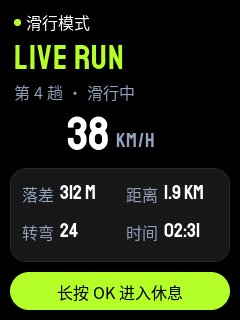
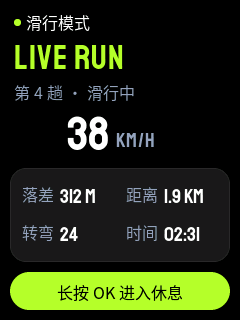
fix: Align the Ski page cells and describe the new layout in the docs
- Move each value 4 pixels down, 2 pixels below its name, so that the
  baselines of the name and the value align.
- Docs 01 and 02: describe the status line, the large speed, and the
  four labeled cells of the Ski page, with each position.

Results: ./tools/validate.sh exit 0. Simulator self-test 60/60.
Device tests: NOT RUN.

diff --git a/assets/sim/coach-flow.html b/assets/sim/coach-flow.html
@@ -244,7 +244,7 @@
       <h1>Coach voice chain (P0) and ski data (Increment 2) · 交互模拟器</h1>
     </div>
   </div>
-  <div class="meta">数据源 <code>Firmware/flows/coach.flow.json</code><br>7 个状态 · 30 条转换 · SHA-256 <code>688d2c720054</code></div>
+  <div class="meta">数据源 <code>Firmware/flows/coach.flow.json</code><br>7 个状态 · 30 条转换 · SHA-256 <code>66d8534820e9</code></div>
 </header>
 <main>
   <section class="card stage" aria-labelledby="device-title">
@@ -327,7 +327,7 @@
 </main>
 
 <script>
-const DATA = {"flow":{"app":"coach","title":"Coach voice chain (P0) and ski data (Increment 2)","strings_file":"../../assets/ui/strings.json","lvgl_pool_bytes":24576,"lvgl_pool_ceiling_bytes":20480,"one_screen_at_a_time":true,"input":{"reserve_ok_long_for_page":true,"back_intents":["DOWN_HOLD"],"comment":"The Coach page uses the OK hold for capture. D-10 makes the DOWN hold the way back."},"subjects":[{"id":"status_text","type":"string","initial":"未连接","size":32},{"id":"tag_text","type":"string","initial":"READY","size":16,"comment":"The large English state word. Display font, ASCII only."},{"id":"state_text","type":"string","initial":"就绪","size":32},{"id":"body_text","type":"string","initial":"按住说话，松开发送","size":240},{"id":"hint_text","type":"string","initial":"长按 OK 提问","size":48},{"id":"battery_text","type":"string","initial":"","size":16},{"id":"link_state","type":"int","initial":0,"comment":"0 down, 1 up"},{"id":"icon_state","type":"int","initial":0,"comment":"0 ready, 1 listening, 2 thinking, 3 answering, 4 failed, 5 ski, 6 exit, 7 link lost"}],"screens":[{"id":"coach","widgets":[{"id":"body_panel","type":"obj","x":10,"y":172,"w":220,"h":90,"bg":"surface","radius":16,"border_width":1,"border_color":"surface_hi"},{"id":"hint_panel","type":"obj","x":10,"y":272,"w":220,"h":38,"bg":"accent","radius":19},{"id":"ridge_back","type":"line","x":0,"y":146,"points":[[0,22],[26,12],[44,17],[74,0],[100,14],[120,9],[150,22],[182,3],[208,13],[240,8]],"width":2,"color":"ridge"},{"id":"link_dot","type":"obj","x":96,"y":19,"w":7,"h":7,"color":"danger","radius":4},{"id":"icon","type":"state_icon","x":170,"y":70,"w":56,"h":56,"value":0},{"id":"mode","type":"label","x":14,"y":10,"w":76,"text":"休息模式","font":"heygo_sc_16","color":"ink"},{"id":"status","type":"label","x":108,"y":10,"w":66,"text":"未连接","font":"heygo_sc_16","color":"danger"},{"id":"battery","type":"label","x":176,"y":11,"w":50,"align":"top_right","text":"","font":"heygo_display_20","color":"muted"},{"id":"tag","type":"label","x":14,"y":61,"w":150,"text":"READY","font":"heygo_display_34","color":"accent","letter_space":1},{"id":"dest","type":"label","x":14,"y":36,"w":100,"text":"AI COACH","font":"heygo_display_20","color":"muted","letter_space":1},{"id":"state","type":"label","x":14,"y":105,"w":150,"text":"就绪","font":"heygo_sc_28","color":"ink"},{"id":"body","type":"label","x":22,"y":184,"w":196,"h":72,"text":"按住说话，松开发送","font":"heygo_sc_16","color":"ink","long_mode":"dots"},{"id":"hint","type":"label","x":22,"y":280,"w":196,"align":"top_mid","text":"长按 OK 提问","font":"heygo_sc_16","color":"bg"}]},{"id":"ski","widgets":[{"id":"hint_panel","type":"obj","x":10,"y":272,"w":220,"h":38,"bg":"accent","radius":19},{"id":"body_panel","type":"obj","x":10,"y":168,"w":220,"h":94,"bg":"surface","radius":16,"border_width":1,"border_color":"surface_hi"},{"id":"mode_dot","type":"obj","x":14,"y":19,"w":7,"h":7,"color":"accent","radius":4},{"id":"mode","type":"label","x":26,"y":10,"w":110,"text":"滑行模式","font":"heygo_sc_16","color":"ink"},{"id":"battery","type":"label","x":176,"y":11,"w":50,"align":"top_right","text":"","font":"heygo_display_20","color":"muted"},{"id":"dest","type":"label","x":14,"y":36,"w":212,"text":"LIVE RUN","font":"heygo_display_34","color":"accent","letter_space":1},{"id":"sub","type":"label","x":14,"y":80,"w":212,"text":"等待手机数据","font":"heygo_sc_16","color":"muted"},{"id":"big","type":"label","x":14,"y":104,"w":96,"align":"top_right","text":"--","font":"heygo_display_48","color":"ink"},{"id":"unit","type":"label","x":116,"y":128,"w":110,"text":"KM/H","font":"heygo_display_20","color":"muted","letter_space":1},{"id":"k_drop","type":"label","x":22,"y":182,"w":36,"text":"落差","font":"heygo_sc_16","color":"muted"},{"id":"drop","type":"label","x":60,"y":180,"w":62,"text":"--","font":"heygo_display_20","color":"ink"},{"id":"k_dist","type":"label","x":126,"y":182,"w":36,"text":"距离","font":"heygo_sc_16","color":"muted"},{"id":"dist","type":"label","x":164,"y":180,"w":62,"text":"--","font":"heygo_display_20","color":"ink"},{"id":"k_turns","type":"label","x":22,"y":220,"w":36,"text":"转弯","font":"heygo_sc_16","color":"muted"},{"id":"turns","type":"label","x":60,"y":218,"w":62,"text":"--","font":"heygo_display_20","color":"ink"},{"id":"k_time","type":"label","x":126,"y":220,"w":36,"text":"时间","font":"heygo_sc_16","color":"muted"},{"id":"time","type":"label","x":164,"y":218,"w":62,"text":"--","font":"heygo_display_20","color":"ink"},{"id":"problem","type":"label","x":22,"y":180,"w":196,"text":"","font":"heygo_sc_16","color":"accent","hidden":true},{"id":"tip","type":"label","x":22,"y":204,"w":196,"h":50,"text":"","font":"heygo_sc_16","color":"ink","long_mode":"dots","hidden":true},{"id":"hint","type":"label","x":22,"y":280,"w":196,"align":"top_mid","text":"长按 OK 进入休息","font":"heygo_sc_16","color":"bg"}]},{"id":"report","widgets":[{"id":"body_panel","type":"obj","x":10,"y":172,"w":220,"h":90,"bg":"surface","radius":16,"border_width":1,"border_color":"surface_hi"},{"id":"hint_panel","type":"obj","x":10,"y":272,"w":220,"h":38,"bg":"accent","radius":19},{"id":"ridge_back","type":"line","x":0,"y":152,"points":[[0,22],[26,12],[44,17],[74,0],[100,14],[120,9],[150,22],[182,3],[208,13],[240,8]],"width":2,"color":"ridge"},{"id":"mode_dot","type":"obj","x":14,"y":19,"w":7,"h":7,"color":"accent","radius":4},{"id":"mode","type":"label","x":26,"y":10,"w":110,"text":"休息模式","font":"heygo_sc_16","color":"ink"},{"id":"battery","type":"label","x":176,"y":11,"w":50,"align":"top_right","text":"","font":"heygo_display_20","color":"muted"},{"id":"dest","type":"label","x":14,"y":36,"w":212,"text":"RUN REPORT","font":"heygo_display_34","color":"accent","letter_space":1},{"id":"title","type":"label","x":14,"y":80,"w":212,"text":"滑完一趟后显示报告","font":"heygo_sc_16","color":"muted"},{"id":"iq","type":"label","x":14,"y":105,"w":96,"align":"top_right","text":"--","font":"heygo_display_48","color":"ink"},{"id":"iq_name","type":"label","x":116,"y":106,"w":110,"text":"HEYGO IQ","font":"heygo_display_20","color":"muted","letter_space":1},{"id":"age","type":"label","x":116,"y":131,"w":110,"text":"","font":"heygo_display_20","color":"muted","letter_space":1},{"id":"problem","type":"label","x":22,"y":182,"w":196,"text":"","font":"heygo_sc_16","color":"accent"},{"id":"tip","type":"label","x":22,"y":206,"w":196,"h":50,"text":"","font":"heygo_sc_16","color":"ink","long_mode":"dots"},{"id":"hint","type":"label","x":22,"y":280,"w":196,"align":"top_mid","text":"短按 UP 回教练","font":"heygo_sc_16","color":"bg"}]},{"id":"exit","widgets":[{"id":"body_panel","type":"obj","x":10,"y":176,"w":220,"h":86,"bg":"surface","radius":16,"border_width":1,"border_color":"surface_hi"},{"id":"hint_panel","type":"obj","x":10,"y":272,"w":220,"h":38,"bg":"accent","radius":19},{"id":"mode_dot","type":"obj","x":14,"y":19,"w":7,"h":7,"color":"danger","radius":4},{"id":"icon","type":"state_icon","x":170,"y":64,"w":56,"h":56,"value":6},{"id":"mode","type":"label","x":26,"y":10,"w":110,"text":"休息模式","font":"heygo_sc_16","color":"ink"},{"id":"battery","type":"label","x":176,"y":11,"w":50,"align":"top_right","text":"","font":"heygo_display_20","color":"muted"},{"id":"dest","type":"label","x":14,"y":36,"w":150,"text":"END SESSION","font":"heygo_display_34","color":"danger","letter_space":1},{"id":"title","type":"label","x":14,"y":126,"w":212,"text":"退出休息模式？","font":"heygo_sc_28","color":"ink"},{"id":"primary","type":"label","x":22,"y":188,"w":196,"text":"OK  退出休息模式","font":"heygo_sc_16","color":"accent"},{"id":"secondary","type":"label","x":22,"y":226,"w":196,"text":"UP / DOWN  返回","font":"heygo_sc_16","color":"muted"},{"id":"hint","type":"label","x":22,"y":280,"w":196,"align":"top_mid","text":"短按 OK 确认","font":"heygo_sc_16","color":"bg"}]}],"transforms":[{"id":"tag_color","from":"int","to":"color","map":{"4":"danger","7":"danger"},"default":"accent","comment":"The large English state word turns red for the failure and link icons."},{"id":"link_color","from":"int","to":"color","map":{"0":"danger","1":"muted"},"default":"muted"},{"id":"link_dot_color","from":"int","to":"color","map":{"0":"danger","1":"ok"},"default":"danger"}],"bindings":[{"subject":"status_text","target":"status.text"},{"subject":"tag_text","target":"tag.text"},{"subject":"icon_state","target":"tag.color","transform":"tag_color"},{"subject":"state_text","target":"state.text"},{"subject":"body_text","target":"body.text"},{"subject":"hint_text","target":"hint.text"},{"subject":"battery_text","target":"battery.text"},{"subject":"link_state","target":"status.color","transform":"link_color"},{"subject":"link_state","target":"link_dot.color","transform":"link_dot_color"},{"subject":"icon_state","target":"icon.value"}],"actions":[{"id":"ui_show_ski","async":false},{"id":"ui_show_rest","async":false},{"id":"ui_show_done","async":false},{"id":"ui_show_exit","async":false},{"id":"ui_show_report","async":false},{"id":"ui_show_listening","async":false},{"id":"ui_show_thinking","async":false},{"id":"ui_show_answering","async":false},{"id":"ui_show_retry","async":false},{"id":"ui_show_timeout","async":false},{"id":"ui_show_limit","async":false},{"id":"ui_show_link_lost","async":false},{"id":"ui_show_blocked","async":false},{"id":"ui_link_ready","async":false,"comment":"The link glue applies the ui_link_* and ui_why_* actions. No transition uses them."},{"id":"ui_link_down","async":false},{"id":"ui_link_no_voice","async":false},{"id":"ui_why_link_down","async":false},{"id":"ui_why_phone_silent","async":false},{"id":"ui_why_version","async":false},{"id":"ui_why_mtu","async":false},{"id":"ui_why_audio","async":false},{"id":"audio_capture_start","async":true},{"id":"audio_capture_stop","async":true},{"id":"audio_play_start","async":true},{"id":"audio_play_stop","async":true},{"id":"link_send_agent_start","async":true},{"id":"link_send_agent_end","async":true},{"id":"link_send_agent_cancel","async":true}],"ui_effects":{"comment":"The subject values that each ui_show_* action sets. A value is a key in assets/ui/strings.json, or an empty text. n fills {n}. A missing subject keeps its value.","ui_show_ski":{},"ui_show_exit":{},"ui_show_report":{},"ui_show_rest":{"tag_text":"tag.ready","state_text":"state.ready","body_text":"msg.ready","hint_text":"hint.ready","icon_state":0},"ui_show_done":{"tag_text":"tag.ready","state_text":"state.ready","hint_text":"hint.ready","icon_state":0},"ui_show_listening":{"tag_text":"tag.listening","state_text":"state.listening","body_text":"msg.listening","hint_text":"hint.listening","icon_state":1},"ui_show_thinking":{"tag_text":"tag.thinking","state_text":"state.thinking","body_text":"msg.sent","hint_text":"hint.thinking","icon_state":2},"ui_show_answering":{"tag_text":"tag.answering","state_text":"state.answering","hint_text":"hint.answering","icon_state":3},"ui_show_retry":{"tag_text":"tag.failed","state_text":"state.failed","body_text":"msg.retry","hint_text":"hint.ready","icon_state":4},"ui_show_timeout":{"tag_text":"tag.failed","state_text":"state.failed","body_text":"msg.timeout","hint_text":"hint.ready","icon_state":4},"ui_show_limit":{"tag_text":"tag.thinking","state_text":"state.thinking","body_text":{"key":"msg.limit","n":20},"hint_text":"hint.thinking","icon_state":2},"ui_show_link_lost":{"tag_text":"tag.failed","state_text":"state.failed","body_text":"msg.link_lost","hint_text":"hint.ready","icon_state":7},"ui_show_blocked":{"tag_text":"tag.failed","state_text":"state.failed","hint_text":"hint.ready","icon_state":7},"ui_link_ready":{"status_text":"status.link_up","link_state":1},"ui_link_down":{"status_text":"status.link_down","link_state":0},"ui_link_no_voice":{"status_text":"msg.voice_off","link_state":0},"ui_why_link_down":{"body_text":"msg.link_lost"},"ui_why_phone_silent":{"body_text":"msg.phone_silent"},"ui_why_version":{"body_text":"msg.version"},"ui_why_mtu":{"body_text":"msg.voice_off"},"ui_why_audio":{"body_text":"msg.voice_off"}},"states":[{"id":"SKI","screen":"ski","initial":true,"root":true},{"id":"READY","screen":"coach"},{"id":"CAPTURE","screen":"coach"},{"id":"WAIT_ANSWER","screen":"coach"},{"id":"PLAYBACK","screen":"coach"},{"id":"REPORT","screen":"report"},{"id":"EXIT_Q","screen":"exit"}],"transitions":[{"from":"SKI","on":"OK_HOLD","to":"READY","actions":["ui_show_rest"],"comment":"D-15. This press enters Rest mode. One press gives one OK_HOLD, so it cannot also start capture."},{"from":"READY","on":"OK_HOLD","to":"CAPTURE","actions":["ui_show_listening","audio_capture_start","link_send_agent_start"]},{"from":"READY","on":"DOWN_HOLD","to":"EXIT_Q","actions":["ui_show_exit"]},{"from":"READY","on":"DOWN_SHORT","to":"REPORT","actions":["ui_show_report"],"comment":"D-25. Only the idle Coach page opens the Report page. A short press during audio changes no page."},{"from":"READY","on":"ASK_BLOCKED","to":"READY","actions":["ui_show_blocked"],"comment":"The glue sends ASK_BLOCKED in place of OK_HOLD while voice is not available. The ui_why_* text gives the cause."},{"from":"READY","on":"LINK_LOST","to":"READY","actions":["ui_show_link_lost"]},{"from":"CAPTURE","on":"OK_RELEASE","to":"WAIT_ANSWER","actions":["audio_capture_stop","link_send_agent_end","ui_show_thinking"]},{"from":"CAPTURE","on":"CAPTURE_LIMIT","to":"WAIT_ANSWER","actions":["audio_capture_stop","link_send_agent_end","ui_show_limit"]},{"from":"CAPTURE","on":"UP_HOLD","to":"READY","actions":["audio_capture_stop","link_send_agent_cancel","ui_show_rest"]},{"from":"CAPTURE","on":"LINK_LOST","to":"READY","actions":["audio_capture_stop","ui_show_link_lost"]},{"from":"WAIT_ANSWER","on":"ANSWER_START","to":"PLAYBACK","actions":["ui_show_answering","audio_play_start"]},{"from":"WAIT_ANSWER","on":"ANSWER_FAILED","to":"READY","actions":["ui_show_retry"]},{"from":"WAIT_ANSWER","on":"AGENT_TIMEOUT","to":"READY","actions":["ui_show_timeout"]},{"from":"WAIT_ANSWER","on":"UP_HOLD","to":"READY","actions":["link_send_agent_cancel","ui_show_rest"]},{"from":"WAIT_ANSWER","on":"OK_HOLD","to":"CAPTURE","actions":["link_send_agent_cancel","ui_show_listening","audio_capture_start","link_send_agent_start"],"comment":"A new question cancels the open exchange. A late answer then carries a stale xid."},{"from":"WAIT_ANSWER","on":"LINK_LOST","to":"READY","actions":["ui_show_link_lost"]},{"from":"PLAYBACK","on":"ANSWER_END","to":"READY","actions":["audio_play_stop","ui_show_done"],"comment":"ui_show_done keeps the answer text on the screen until the next action."},{"from":"PLAYBACK","on":"UP_HOLD","to":"READY","actions":["audio_play_stop","link_send_agent_cancel","ui_show_rest"]},{"from":"PLAYBACK","on":"OK_HOLD","to":"CAPTURE","actions":["audio_play_stop","link_send_agent_cancel","ui_show_listening","audio_capture_start","link_send_agent_start"],"comment":"Playback stops before the microphone starts. The device never records and plays together."},{"from":"PLAYBACK","on":"LINK_LOST","to":"READY","actions":["audio_play_stop","ui_show_link_lost"]},{"from":"REPORT","on":"UP_SHORT","to":"READY","actions":["ui_show_rest"]},{"from":"REPORT","on":"DOWN_HOLD","to":"EXIT_Q","actions":["ui_show_exit"],"comment":"As on the Coach page. An OK hold on the Report page does nothing (D-25)."},{"from":"SKI","on":"SHOW_REPORT","to":"REPORT","actions":["ui_show_report"],"comment":"D-28. The phone sends SHOW_PAGE 3. Only SKI and READY go to the Report page. From SKI the device also enters Rest mode. Every other state ignores the request, so it never stops a question or an answer."},{"from":"READY","on":"SHOW_REPORT","to":"REPORT","actions":["ui_show_report"]},{"from":"EXIT_Q","on":"OK_SHORT","to":"SKI","actions":["ui_show_ski"]},{"from":"EXIT_Q","on":"UP_SHORT","to":"READY","actions":["ui_show_rest"]},{"from":"EXIT_Q","on":"DOWN_SHORT","to":"READY","actions":["ui_show_rest"]},{"from":"EXIT_Q","on":"UP_HOLD","to":"READY","actions":["ui_show_rest"]},{"from":"EXIT_Q","on":"DOWN_HOLD","to":"READY","actions":["ui_show_rest"]},{"from":"EXIT_Q","on":"OK_HOLD","to":"READY","actions":["ui_show_rest"]}]},"strings":{"status.ski":"滑行模式","status.rest":"休息模式","status.link_up":"已连接","status.link_down":"未连接","status.battery":"电量 {n}%","status.battery_unknown":"电量未知","status.separator":" · ","coach.destination":"AI 教练","state.ready":"就绪","state.listening":"正在听","state.thinking":"思考中","state.answering":"回答中","state.failed":"失败","tag.ready":"READY","tag.listening":"LISTENING","tag.thinking":"THINKING","tag.answering":"ANSWERING","tag.failed":"FAILED","ski.title":"滑行中","exit.title":"退出休息模式？","hint.ready":"长按 OK 提问","hint.listening":"松开 OK 发送","hint.thinking":"长按 UP 取消","hint.answering":"长按 UP 停止","hint.ski":"长按 OK 进入休息","hint.exit":"短按 OK 确认","hint.exit_other":"其他键返回","msg.ready":"按住说话，松开发送","msg.listening":"正在记录你的问题","msg.sent":"问题已发送，正在分析","msg.retry":"没听清，请重说","msg.timeout":"超时，请重试","msg.limit":"已到 {n} 秒上限","msg.link_lost":"手机未连接","msg.phone_silent":"手机应用无响应","msg.version":"协议版本不兼容","msg.voice_off":"语音不可用","msg.cancelled":"已取消","hint.report":"短按 UP 回教练","msg.wait_data":"等待手机数据","msg.stale":"数据已过期","msg.report_wait":"报告生成中","msg.skiing":"滑行中","msg.stopped":"静止","msg.run_report":"本趟报告","msg.no_report":"滑完一趟后显示报告","fmt.turns":"{n} 弯","fmt.run":"第 {n} 趟"},"colors":{"bg":"#000000","surface":"#1A1A1A","surface_hi":"#2A2A2A","ink":"#FFFFFF","muted":"#94A3B8","accent":"#B1FE2B","ok":"#B1FE2B","danger":"#EF4444","ridge":"#3A3A3A","accent_dim":"#4A6A12"},"hold_ms":500,"static_issues":["在 CAPTURE、WAIT_ANSWER、PLAYBACK 状态下长按 DOWN 会被忽略。D-19 确认了这个行为：先长按 UP 取消，再长按 DOWN 退出。"]};
+const DATA = {"flow":{"app":"coach","title":"Coach voice chain (P0) and ski data (Increment 2)","strings_file":"../../assets/ui/strings.json","lvgl_pool_bytes":24576,"lvgl_pool_ceiling_bytes":20480,"one_screen_at_a_time":true,"input":{"reserve_ok_long_for_page":true,"back_intents":["DOWN_HOLD"],"comment":"The Coach page uses the OK hold for capture. D-10 makes the DOWN hold the way back."},"subjects":[{"id":"status_text","type":"string","initial":"未连接","size":32},{"id":"tag_text","type":"string","initial":"READY","size":16,"comment":"The large English state word. Display font, ASCII only."},{"id":"state_text","type":"string","initial":"就绪","size":32},{"id":"body_text","type":"string","initial":"按住说话，松开发送","size":240},{"id":"hint_text","type":"string","initial":"长按 OK 提问","size":48},{"id":"battery_text","type":"string","initial":"","size":16},{"id":"link_state","type":"int","initial":0,"comment":"0 down, 1 up"},{"id":"icon_state","type":"int","initial":0,"comment":"0 ready, 1 listening, 2 thinking, 3 answering, 4 failed, 5 ski, 6 exit, 7 link lost"}],"screens":[{"id":"coach","widgets":[{"id":"body_panel","type":"obj","x":10,"y":172,"w":220,"h":90,"bg":"surface","radius":16,"border_width":1,"border_color":"surface_hi"},{"id":"hint_panel","type":"obj","x":10,"y":272,"w":220,"h":38,"bg":"accent","radius":19},{"id":"ridge_back","type":"line","x":0,"y":146,"points":[[0,22],[26,12],[44,17],[74,0],[100,14],[120,9],[150,22],[182,3],[208,13],[240,8]],"width":2,"color":"ridge"},{"id":"link_dot","type":"obj","x":96,"y":19,"w":7,"h":7,"color":"danger","radius":4},{"id":"icon","type":"state_icon","x":170,"y":70,"w":56,"h":56,"value":0},{"id":"mode","type":"label","x":14,"y":10,"w":76,"text":"休息模式","font":"heygo_sc_16","color":"ink"},{"id":"status","type":"label","x":108,"y":10,"w":66,"text":"未连接","font":"heygo_sc_16","color":"danger"},{"id":"battery","type":"label","x":176,"y":11,"w":50,"align":"top_right","text":"","font":"heygo_display_20","color":"muted"},{"id":"tag","type":"label","x":14,"y":61,"w":150,"text":"READY","font":"heygo_display_34","color":"accent","letter_space":1},{"id":"dest","type":"label","x":14,"y":36,"w":100,"text":"AI COACH","font":"heygo_display_20","color":"muted","letter_space":1},{"id":"state","type":"label","x":14,"y":105,"w":150,"text":"就绪","font":"heygo_sc_28","color":"ink"},{"id":"body","type":"label","x":22,"y":184,"w":196,"h":72,"text":"按住说话，松开发送","font":"heygo_sc_16","color":"ink","long_mode":"dots"},{"id":"hint","type":"label","x":22,"y":280,"w":196,"align":"top_mid","text":"长按 OK 提问","font":"heygo_sc_16","color":"bg"}]},{"id":"ski","widgets":[{"id":"hint_panel","type":"obj","x":10,"y":272,"w":220,"h":38,"bg":"accent","radius":19},{"id":"body_panel","type":"obj","x":10,"y":168,"w":220,"h":94,"bg":"surface","radius":16,"border_width":1,"border_color":"surface_hi"},{"id":"mode_dot","type":"obj","x":14,"y":19,"w":7,"h":7,"color":"accent","radius":4},{"id":"mode","type":"label","x":26,"y":10,"w":110,"text":"滑行模式","font":"heygo_sc_16","color":"ink"},{"id":"battery","type":"label","x":176,"y":11,"w":50,"align":"top_right","text":"","font":"heygo_display_20","color":"muted"},{"id":"dest","type":"label","x":14,"y":36,"w":212,"text":"LIVE RUN","font":"heygo_display_34","color":"accent","letter_space":1},{"id":"sub","type":"label","x":14,"y":80,"w":212,"text":"等待手机数据","font":"heygo_sc_16","color":"muted"},{"id":"big","type":"label","x":14,"y":104,"w":96,"align":"top_right","text":"--","font":"heygo_display_48","color":"ink"},{"id":"unit","type":"label","x":116,"y":128,"w":110,"text":"KM/H","font":"heygo_display_20","color":"muted","letter_space":1},{"id":"k_drop","type":"label","x":22,"y":182,"w":36,"text":"落差","font":"heygo_sc_16","color":"muted"},{"id":"drop","type":"label","x":60,"y":184,"w":62,"text":"--","font":"heygo_display_20","color":"ink"},{"id":"k_dist","type":"label","x":126,"y":182,"w":36,"text":"距离","font":"heygo_sc_16","color":"muted"},{"id":"dist","type":"label","x":164,"y":184,"w":62,"text":"--","font":"heygo_display_20","color":"ink"},{"id":"k_turns","type":"label","x":22,"y":220,"w":36,"text":"转弯","font":"heygo_sc_16","color":"muted"},{"id":"turns","type":"label","x":60,"y":222,"w":62,"text":"--","font":"heygo_display_20","color":"ink"},{"id":"k_time","type":"label","x":126,"y":220,"w":36,"text":"时间","font":"heygo_sc_16","color":"muted"},{"id":"time","type":"label","x":164,"y":222,"w":62,"text":"--","font":"heygo_display_20","color":"ink"},{"id":"problem","type":"label","x":22,"y":180,"w":196,"text":"","font":"heygo_sc_16","color":"accent","hidden":true},{"id":"tip","type":"label","x":22,"y":204,"w":196,"h":50,"text":"","font":"heygo_sc_16","color":"ink","long_mode":"dots","hidden":true},{"id":"hint","type":"label","x":22,"y":280,"w":196,"align":"top_mid","text":"长按 OK 进入休息","font":"heygo_sc_16","color":"bg"}]},{"id":"report","widgets":[{"id":"body_panel","type":"obj","x":10,"y":172,"w":220,"h":90,"bg":"surface","radius":16,"border_width":1,"border_color":"surface_hi"},{"id":"hint_panel","type":"obj","x":10,"y":272,"w":220,"h":38,"bg":"accent","radius":19},{"id":"ridge_back","type":"line","x":0,"y":152,"points":[[0,22],[26,12],[44,17],[74,0],[100,14],[120,9],[150,22],[182,3],[208,13],[240,8]],"width":2,"color":"ridge"},{"id":"mode_dot","type":"obj","x":14,"y":19,"w":7,"h":7,"color":"accent","radius":4},{"id":"mode","type":"label","x":26,"y":10,"w":110,"text":"休息模式","font":"heygo_sc_16","color":"ink"},{"id":"battery","type":"label","x":176,"y":11,"w":50,"align":"top_right","text":"","font":"heygo_display_20","color":"muted"},{"id":"dest","type":"label","x":14,"y":36,"w":212,"text":"RUN REPORT","font":"heygo_display_34","color":"accent","letter_space":1},{"id":"title","type":"label","x":14,"y":80,"w":212,"text":"滑完一趟后显示报告","font":"heygo_sc_16","color":"muted"},{"id":"iq","type":"label","x":14,"y":105,"w":96,"align":"top_right","text":"--","font":"heygo_display_48","color":"ink"},{"id":"iq_name","type":"label","x":116,"y":106,"w":110,"text":"HEYGO IQ","font":"heygo_display_20","color":"muted","letter_space":1},{"id":"age","type":"label","x":116,"y":131,"w":110,"text":"","font":"heygo_display_20","color":"muted","letter_space":1},{"id":"problem","type":"label","x":22,"y":182,"w":196,"text":"","font":"heygo_sc_16","color":"accent"},{"id":"tip","type":"label","x":22,"y":206,"w":196,"h":50,"text":"","font":"heygo_sc_16","color":"ink","long_mode":"dots"},{"id":"hint","type":"label","x":22,"y":280,"w":196,"align":"top_mid","text":"短按 UP 回教练","font":"heygo_sc_16","color":"bg"}]},{"id":"exit","widgets":[{"id":"body_panel","type":"obj","x":10,"y":176,"w":220,"h":86,"bg":"surface","radius":16,"border_width":1,"border_color":"surface_hi"},{"id":"hint_panel","type":"obj","x":10,"y":272,"w":220,"h":38,"bg":"accent","radius":19},{"id":"mode_dot","type":"obj","x":14,"y":19,"w":7,"h":7,"color":"danger","radius":4},{"id":"icon","type":"state_icon","x":170,"y":64,"w":56,"h":56,"value":6},{"id":"mode","type":"label","x":26,"y":10,"w":110,"text":"休息模式","font":"heygo_sc_16","color":"ink"},{"id":"battery","type":"label","x":176,"y":11,"w":50,"align":"top_right","text":"","font":"heygo_display_20","color":"muted"},{"id":"dest","type":"label","x":14,"y":36,"w":150,"text":"END SESSION","font":"heygo_display_34","color":"danger","letter_space":1},{"id":"title","type":"label","x":14,"y":126,"w":212,"text":"退出休息模式？","font":"heygo_sc_28","color":"ink"},{"id":"primary","type":"label","x":22,"y":188,"w":196,"text":"OK  退出休息模式","font":"heygo_sc_16","color":"accent"},{"id":"secondary","type":"label","x":22,"y":226,"w":196,"text":"UP / DOWN  返回","font":"heygo_sc_16","color":"muted"},{"id":"hint","type":"label","x":22,"y":280,"w":196,"align":"top_mid","text":"短按 OK 确认","font":"heygo_sc_16","color":"bg"}]}],"transforms":[{"id":"tag_color","from":"int","to":"color","map":{"4":"danger","7":"danger"},"default":"accent","comment":"The large English state word turns red for the failure and link icons."},{"id":"link_color","from":"int","to":"color","map":{"0":"danger","1":"muted"},"default":"muted"},{"id":"link_dot_color","from":"int","to":"color","map":{"0":"danger","1":"ok"},"default":"danger"}],"bindings":[{"subject":"status_text","target":"status.text"},{"subject":"tag_text","target":"tag.text"},{"subject":"icon_state","target":"tag.color","transform":"tag_color"},{"subject":"state_text","target":"state.text"},{"subject":"body_text","target":"body.text"},{"subject":"hint_text","target":"hint.text"},{"subject":"battery_text","target":"battery.text"},{"subject":"link_state","target":"status.color","transform":"link_color"},{"subject":"link_state","target":"link_dot.color","transform":"link_dot_color"},{"subject":"icon_state","target":"icon.value"}],"actions":[{"id":"ui_show_ski","async":false},{"id":"ui_show_rest","async":false},{"id":"ui_show_done","async":false},{"id":"ui_show_exit","async":false},{"id":"ui_show_report","async":false},{"id":"ui_show_listening","async":false},{"id":"ui_show_thinking","async":false},{"id":"ui_show_answering","async":false},{"id":"ui_show_retry","async":false},{"id":"ui_show_timeout","async":false},{"id":"ui_show_limit","async":false},{"id":"ui_show_link_lost","async":false},{"id":"ui_show_blocked","async":false},{"id":"ui_link_ready","async":false,"comment":"The link glue applies the ui_link_* and ui_why_* actions. No transition uses them."},{"id":"ui_link_down","async":false},{"id":"ui_link_no_voice","async":false},{"id":"ui_why_link_down","async":false},{"id":"ui_why_phone_silent","async":false},{"id":"ui_why_version","async":false},{"id":"ui_why_mtu","async":false},{"id":"ui_why_audio","async":false},{"id":"audio_capture_start","async":true},{"id":"audio_capture_stop","async":true},{"id":"audio_play_start","async":true},{"id":"audio_play_stop","async":true},{"id":"link_send_agent_start","async":true},{"id":"link_send_agent_end","async":true},{"id":"link_send_agent_cancel","async":true}],"ui_effects":{"comment":"The subject values that each ui_show_* action sets. A value is a key in assets/ui/strings.json, or an empty text. n fills {n}. A missing subject keeps its value.","ui_show_ski":{},"ui_show_exit":{},"ui_show_report":{},"ui_show_rest":{"tag_text":"tag.ready","state_text":"state.ready","body_text":"msg.ready","hint_text":"hint.ready","icon_state":0},"ui_show_done":{"tag_text":"tag.ready","state_text":"state.ready","hint_text":"hint.ready","icon_state":0},"ui_show_listening":{"tag_text":"tag.listening","state_text":"state.listening","body_text":"msg.listening","hint_text":"hint.listening","icon_state":1},"ui_show_thinking":{"tag_text":"tag.thinking","state_text":"state.thinking","body_text":"msg.sent","hint_text":"hint.thinking","icon_state":2},"ui_show_answering":{"tag_text":"tag.answering","state_text":"state.answering","hint_text":"hint.answering","icon_state":3},"ui_show_retry":{"tag_text":"tag.failed","state_text":"state.failed","body_text":"msg.retry","hint_text":"hint.ready","icon_state":4},"ui_show_timeout":{"tag_text":"tag.failed","state_text":"state.failed","body_text":"msg.timeout","hint_text":"hint.ready","icon_state":4},"ui_show_limit":{"tag_text":"tag.thinking","state_text":"state.thinking","body_text":{"key":"msg.limit","n":20},"hint_text":"hint.thinking","icon_state":2},"ui_show_link_lost":{"tag_text":"tag.failed","state_text":"state.failed","body_text":"msg.link_lost","hint_text":"hint.ready","icon_state":7},"ui_show_blocked":{"tag_text":"tag.failed","state_text":"state.failed","hint_text":"hint.ready","icon_state":7},"ui_link_ready":{"status_text":"status.link_up","link_state":1},"ui_link_down":{"status_text":"status.link_down","link_state":0},"ui_link_no_voice":{"status_text":"msg.voice_off","link_state":0},"ui_why_link_down":{"body_text":"msg.link_lost"},"ui_why_phone_silent":{"body_text":"msg.phone_silent"},"ui_why_version":{"body_text":"msg.version"},"ui_why_mtu":{"body_text":"msg.voice_off"},"ui_why_audio":{"body_text":"msg.voice_off"}},"states":[{"id":"SKI","screen":"ski","initial":true,"root":true},{"id":"READY","screen":"coach"},{"id":"CAPTURE","screen":"coach"},{"id":"WAIT_ANSWER","screen":"coach"},{"id":"PLAYBACK","screen":"coach"},{"id":"REPORT","screen":"report"},{"id":"EXIT_Q","screen":"exit"}],"transitions":[{"from":"SKI","on":"OK_HOLD","to":"READY","actions":["ui_show_rest"],"comment":"D-15. This press enters Rest mode. One press gives one OK_HOLD, so it cannot also start capture."},{"from":"READY","on":"OK_HOLD","to":"CAPTURE","actions":["ui_show_listening","audio_capture_start","link_send_agent_start"]},{"from":"READY","on":"DOWN_HOLD","to":"EXIT_Q","actions":["ui_show_exit"]},{"from":"READY","on":"DOWN_SHORT","to":"REPORT","actions":["ui_show_report"],"comment":"D-25. Only the idle Coach page opens the Report page. A short press during audio changes no page."},{"from":"READY","on":"ASK_BLOCKED","to":"READY","actions":["ui_show_blocked"],"comment":"The glue sends ASK_BLOCKED in place of OK_HOLD while voice is not available. The ui_why_* text gives the cause."},{"from":"READY","on":"LINK_LOST","to":"READY","actions":["ui_show_link_lost"]},{"from":"CAPTURE","on":"OK_RELEASE","to":"WAIT_ANSWER","actions":["audio_capture_stop","link_send_agent_end","ui_show_thinking"]},{"from":"CAPTURE","on":"CAPTURE_LIMIT","to":"WAIT_ANSWER","actions":["audio_capture_stop","link_send_agent_end","ui_show_limit"]},{"from":"CAPTURE","on":"UP_HOLD","to":"READY","actions":["audio_capture_stop","link_send_agent_cancel","ui_show_rest"]},{"from":"CAPTURE","on":"LINK_LOST","to":"READY","actions":["audio_capture_stop","ui_show_link_lost"]},{"from":"WAIT_ANSWER","on":"ANSWER_START","to":"PLAYBACK","actions":["ui_show_answering","audio_play_start"]},{"from":"WAIT_ANSWER","on":"ANSWER_FAILED","to":"READY","actions":["ui_show_retry"]},{"from":"WAIT_ANSWER","on":"AGENT_TIMEOUT","to":"READY","actions":["ui_show_timeout"]},{"from":"WAIT_ANSWER","on":"UP_HOLD","to":"READY","actions":["link_send_agent_cancel","ui_show_rest"]},{"from":"WAIT_ANSWER","on":"OK_HOLD","to":"CAPTURE","actions":["link_send_agent_cancel","ui_show_listening","audio_capture_start","link_send_agent_start"],"comment":"A new question cancels the open exchange. A late answer then carries a stale xid."},{"from":"WAIT_ANSWER","on":"LINK_LOST","to":"READY","actions":["ui_show_link_lost"]},{"from":"PLAYBACK","on":"ANSWER_END","to":"READY","actions":["audio_play_stop","ui_show_done"],"comment":"ui_show_done keeps the answer text on the screen until the next action."},{"from":"PLAYBACK","on":"UP_HOLD","to":"READY","actions":["audio_play_stop","link_send_agent_cancel","ui_show_rest"]},{"from":"PLAYBACK","on":"OK_HOLD","to":"CAPTURE","actions":["audio_play_stop","link_send_agent_cancel","ui_show_listening","audio_capture_start","link_send_agent_start"],"comment":"Playback stops before the microphone starts. The device never records and plays together."},{"from":"PLAYBACK","on":"LINK_LOST","to":"READY","actions":["audio_play_stop","ui_show_link_lost"]},{"from":"REPORT","on":"UP_SHORT","to":"READY","actions":["ui_show_rest"]},{"from":"REPORT","on":"DOWN_HOLD","to":"EXIT_Q","actions":["ui_show_exit"],"comment":"As on the Coach page. An OK hold on the Report page does nothing (D-25)."},{"from":"SKI","on":"SHOW_REPORT","to":"REPORT","actions":["ui_show_report"],"comment":"D-28. The phone sends SHOW_PAGE 3. Only SKI and READY go to the Report page. From SKI the device also enters Rest mode. Every other state ignores the request, so it never stops a question or an answer."},{"from":"READY","on":"SHOW_REPORT","to":"REPORT","actions":["ui_show_report"]},{"from":"EXIT_Q","on":"OK_SHORT","to":"SKI","actions":["ui_show_ski"]},{"from":"EXIT_Q","on":"UP_SHORT","to":"READY","actions":["ui_show_rest"]},{"from":"EXIT_Q","on":"DOWN_SHORT","to":"READY","actions":["ui_show_rest"]},{"from":"EXIT_Q","on":"UP_HOLD","to":"READY","actions":["ui_show_rest"]},{"from":"EXIT_Q","on":"DOWN_HOLD","to":"READY","actions":["ui_show_rest"]},{"from":"EXIT_Q","on":"OK_HOLD","to":"READY","actions":["ui_show_rest"]}]},"strings":{"status.ski":"滑行模式","status.rest":"休息模式","status.link_up":"已连接","status.link_down":"未连接","status.battery":"电量 {n}%","status.battery_unknown":"电量未知","status.separator":" · ","coach.destination":"AI 教练","state.ready":"就绪","state.listening":"正在听","state.thinking":"思考中","state.answering":"回答中","state.failed":"失败","tag.ready":"READY","tag.listening":"LISTENING","tag.thinking":"THINKING","tag.answering":"ANSWERING","tag.failed":"FAILED","ski.title":"滑行中","exit.title":"退出休息模式？","hint.ready":"长按 OK 提问","hint.listening":"松开 OK 发送","hint.thinking":"长按 UP 取消","hint.answering":"长按 UP 停止","hint.ski":"长按 OK 进入休息","hint.exit":"短按 OK 确认","hint.exit_other":"其他键返回","msg.ready":"按住说话，松开发送","msg.listening":"正在记录你的问题","msg.sent":"问题已发送，正在分析","msg.retry":"没听清，请重说","msg.timeout":"超时，请重试","msg.limit":"已到 {n} 秒上限","msg.link_lost":"手机未连接","msg.phone_silent":"手机应用无响应","msg.version":"协议版本不兼容","msg.voice_off":"语音不可用","msg.cancelled":"已取消","hint.report":"短按 UP 回教练","msg.wait_data":"等待手机数据","msg.stale":"数据已过期","msg.report_wait":"报告生成中","msg.skiing":"滑行中","msg.stopped":"静止","msg.run_report":"本趟报告","msg.no_report":"滑完一趟后显示报告","fmt.turns":"{n} 弯","fmt.run":"第 {n} 趟"},"colors":{"bg":"#000000","surface":"#1A1A1A","surface_hi":"#2A2A2A","ink":"#FFFFFF","muted":"#94A3B8","accent":"#B1FE2B","ok":"#B1FE2B","danger":"#EF4444","ridge":"#3A3A3A","accent_dim":"#4A6A12"},"hold_ms":500,"static_issues":["在 CAPTURE、WAIT_ANSWER、PLAYBACK 状态下长按 DOWN 会被忽略。D-19 确认了这个行为：先长按 UP 取消，再长按 DOWN 退出。"]};
 const F = DATA.flow, S = DATA.strings, C = DATA.colors;
 const HOLD_MS = DATA.hold_ms, CAPTURE_LIMIT_MS = 20000, AGENT_TIMEOUT_MS = 10000;
 

diff --git a/需求文件夹/02-architecture.md b/需求文件夹/02-architecture.md
@@ -128,14 +128,18 @@ The positions come from `flows/coach.flow.json`, and the host screen check passe
 | Widget | Position | Font | Content |
 |---|---|---|---|
 | `dest` | `x=14, y=36` | 34 px brand font | "LIVE RUN". After the run ends, "RUN ENDED". After the report arrives, "REPORT" |
-| `run` | `x=14, y=80` | 20 px brand font | "RUN 4  02:31". After the report arrives, "RUN 4  1.9 km" |
-| `speed` | `x=14..110, y=105`, right-aligned | 48 px brand font | The speed. After the report arrives, the Heygo IQ |
-| `unit` | `x=116, y=129` | 20 px brand font | "KM/H". After the report arrives, "HEYGO IQ" |
-| `line1` | `x=14, y=176` | 16 px Chinese | "落差 312 m · 1.9 km". After the report arrives, the core problem |
-| `line2` | `x=14, y=200`, height 50 | 16 px Chinese, at most two lines | "24 弯", plus an out-of-date mark or a "report on the way" mark. After the report arrives, the tip |
+| `sub` | `x=14, y=80` | 16 px Chinese | "第 4 趟 · 滑行中", or the stopped, out-of-date, report-on-the-way, or run-report text. With no data, "等待手机数据" |
+| `big` | `x=14..110, y=104`, right-aligned | 48 px brand font | The speed. After the report arrives, the Heygo IQ |
+| `unit` | `x=116, y=128` | 20 px brand font | "KM/H". After the report arrives, "HEYGO IQ" |
+| `body_panel` | `x=10..230, y=168..262` | None | The background of the data panel |
+| `k_drop` + `drop` | `x=22` and `x=60`, `y=182` | Name in 16 px Chinese, value in 20 px brand font | Vertical drop |
+| `k_dist` + `dist` | `x=126` and `x=164`, `y=182` | As above | Distance |
+| `k_turns` + `turns` | `x=22` and `x=60`, `y=220` | As above | Turn count |
+| `k_time` + `time` | `x=126` and `x=164`, `y=220` | As above | Run time |
+| `problem`, `tip` | `x=22`, `y=180` and `y=204` | 16 px Chinese | Hidden until the report arrives. Then they replace the four cells |
 
-- Before any data arrives, `line1` shows "等待手机数据" and `line2` shows "专注雪道，教练随时待命".
-- After 5 seconds with no new packet, the speed shows "--". After the run ends, the phone sends nothing, and the device marks nothing out of date.
+- Each value sits 2 pixels below its name, so that the two baselines align.
+- The Ski page has no state icon and no ridge line. With both, it had 23 widgets, the host render used all of the LVGL pool, and the drawing hung. Without them, the peak is 18,752 of 21,656 bytes (86%).
 - The 48-pixel font is Staatliches from brand version B. It holds all ASCII characters. It stays in Flash, with a bitmap of 26,115 bytes.
 - No color marks a fast or slow speed.
 

diff --git a/需求文件夹/02-architecture.zh_CN.md b/需求文件夹/02-architecture.zh_CN.md
@@ -128,14 +128,18 @@ D-21 把滑行页正文换成滑行数据。状态栏和按键提示的位置与
 | 控件 | 位置 | 字体 | 内容 |
 |---|---|---|---|
 | `dest` | `x=14, y=36` | 34 px 品牌字体 | "LIVE RUN"；一趟结束后"RUN ENDED"；报告到达后"REPORT" |
-| `run` | `x=14, y=80` | 20 px 品牌字体 | "RUN 4  02:31"；报告到达后"RUN 4  1.9 km" |
-| `speed` | `x=14..110, y=105`，右对齐 | 48 px 品牌字体 | 速度；报告到达后为 Heygo IQ |
-| `unit` | `x=116, y=129` | 20 px 品牌字体 | "KM/H"；报告到达后"HEYGO IQ" |
-| `line1` | `x=14, y=176` | 16 px 中文 | "落差 312 m · 1.9 km"；报告到达后为核心问题 |
-| `line2` | `x=14, y=200`，高 50 | 16 px 中文，最多两行 | "24 弯"，过期时加" · 数据已过期"，结束后加" · 报告生成中"；报告到达后为小建议 |
+| `sub` | `x=14, y=80` | 16 px 中文 | "第 4 趟 · 滑行中"，或"静止""数据已过期""报告生成中""本趟报告"；没有数据时"等待手机数据" |
+| `big` | `x=14..110, y=104`，右对齐 | 48 px 品牌字体 | 速度；报告到达后为 Heygo IQ |
+| `unit` | `x=116, y=128` | 20 px 品牌字体 | "KM/H"；报告到达后"HEYGO IQ" |
+| `body_panel` | `x=10..230, y=168..262` | 无 | 数据面板的底色 |
+| `k_drop` + `drop` | `x=22` 和 `x=60`，`y=182` | 名称 16 px 中文，数值 20 px 品牌字体 | 落差 |
+| `k_dist` + `dist` | `x=126` 和 `x=164`，`y=182` | 同上 | 距离 |
+| `k_turns` + `turns` | `x=22` 和 `x=60`，`y=220` | 同上 | 转弯 |
+| `k_time` + `time` | `x=126` 和 `x=164`，`y=220` | 同上 | 时间 |
+| `problem`、`tip` | `x=22, y=180` 和 `y=204` | 16 px 中文 | 报告到达后代替四格显示，平时隐藏 |
 
-- 还没有数据时，`line1` 显示"等待手机数据"，`line2` 显示"专注雪道，教练随时待命"。
-- 5 秒没有新包时，速度显示"--"。一趟结束后，手机不再发送，这时不标过期。
+- 数值比名称低 2 像素，两者的基线对齐。
+- 滑行页没有状态图标和山脊线。带这两项时有 23 个控件，主机渲染时内存池耗尽，绘制卡死。去掉后峰值为 18,752 / 21,656 字节（86%）。
 - 48 像素字体是品牌 B 版的 Staatliches，包含全部 ASCII 字符。它放在 Flash 里，位图 26,115 字节。
 - 速度不用颜色区分快慢。
 

diff --git a/需求文件夹/01-product-requirements.md b/需求文件夹/01-product-requirements.md
@@ -174,18 +174,20 @@ A canceled answer never resumes.
 
 ### Ski page
 
-D-21 puts live data on the Ski page. During a run, the eyes belong on the slope. So the page shows five numbers, and the speed is the largest.
+D-21 puts live data on the Ski page. During a run, the eyes belong on the slope. So the speed is the largest number, and each other number has a name.
 
 | Area | Content | Example |
 | --- | --- | --- |
-| Title | The run number for today and the run time | Run 4 · 02:31 |
-| Main number | The current speed | 38 km/h |
-| Second line | The vertical drop, the distance, and the turn count | Drop 312 m · 1.8 km · 24 turns |
+| Title | The page state | LIVE RUN |
+| Status line | The run number for today and the run state | 第 4 趟 · 滑行中 |
+| Main number | The current speed | 38 KM/H |
+| Data panel | Four cells, each with a name and a value | 落差 312 m, 距离 1.9 km, 转弯 24, 时间 02:31 |
 | Button hint | No change | Hold OK to rest |
 
 - After the phone detects the start of a run, it sends one packet each second. The device updates the screen for each packet.
-- After 5 seconds with no new packet, the speed shows "--". The other numbers stay, with an out-of-date mark.
-- Before any data arrives, the body shows "Waiting for phone data".
+- The status line shows "skiing" or "stopped". After 5 seconds with no new packet, it shows "data out of date", the speed shows "--", and the panel keeps its numbers.
+- Before any data arrives, the status line shows "waiting for phone data", and each number shows "--".
+- After a run ends, the status line shows "report on the way". When the report arrives, the main number changes to the Heygo IQ, and the panel shows the core problem and the tip.
 - The speed shows as a number only. No color, animation, or sound marks a high speed.
 - If the phone has no speed, it sends the unknown value, and the screen shows "--".
 

diff --git a/需求文件夹/01-product-requirements.zh_CN.md b/需求文件夹/01-product-requirements.zh_CN.md
@@ -174,18 +174,20 @@ D-22 让增量 2 与增量 1 的设备验收并行开发。两个增量各自验
 
 ### 滑行页
 
-D-21 让滑行页显示实时数据。滑行时视线应该在雪道上，所以页面只放 5 个数字，最大的一个是速度。
+D-21 让滑行页显示实时数据。滑行时视线应该在雪道上，所以速度最大，其他每个数字都带名称。
 
 | 区域 | 内容 | 示例 |
 | --- | --- | --- |
-| 标题 | 今日第几趟和本趟滑行时间 | 第 4 趟 · 02:31 |
-| 主数字 | 当前速度 | 38 km/h |
-| 副数字 | 落差、滑行距离和转弯数 | 落差 312 m · 1.8 km · 24 弯 |
+| 标题 | 页面状态 | LIVE RUN |
+| 状态行 | 今日第几趟和滑行状态 | 第 4 趟 · 滑行中 |
+| 主数字 | 当前速度 | 38 KM/H |
+| 数据面板 | 四格，每格一个名称和一个数值 | 落差 312 m、距离 1.9 km、转弯 24、时间 02:31 |
 | 按键提示 | 不变 | 长按 OK 进入休息 |
 
 - 手机判定开始滑行后，每 1 秒发一帧。设备收到一帧就更新一次。
-- 5 秒没有收到新帧，速度显示"--"，其他数字保留，并标明数据过期。
-- 还没有任何数据时，正文显示"等待手机数据"。
+- 状态行显示"滑行中"或"静止"。5 秒没有收到新帧时，显示"数据已过期"，速度显示"--"，面板里的数字保留。
+- 还没有任何数据时，状态行显示"等待手机数据"，所有数字显示"--"。
+- 一趟结束后，状态行显示"报告生成中"。报告到达后，主数字改为 Heygo IQ，面板改为核心问题和小建议。
 - 速度只显示数字，不用颜色、动画或提示音强调高速。
 - 手机没有速度时，发送未知值，屏幕显示"--"。
 
